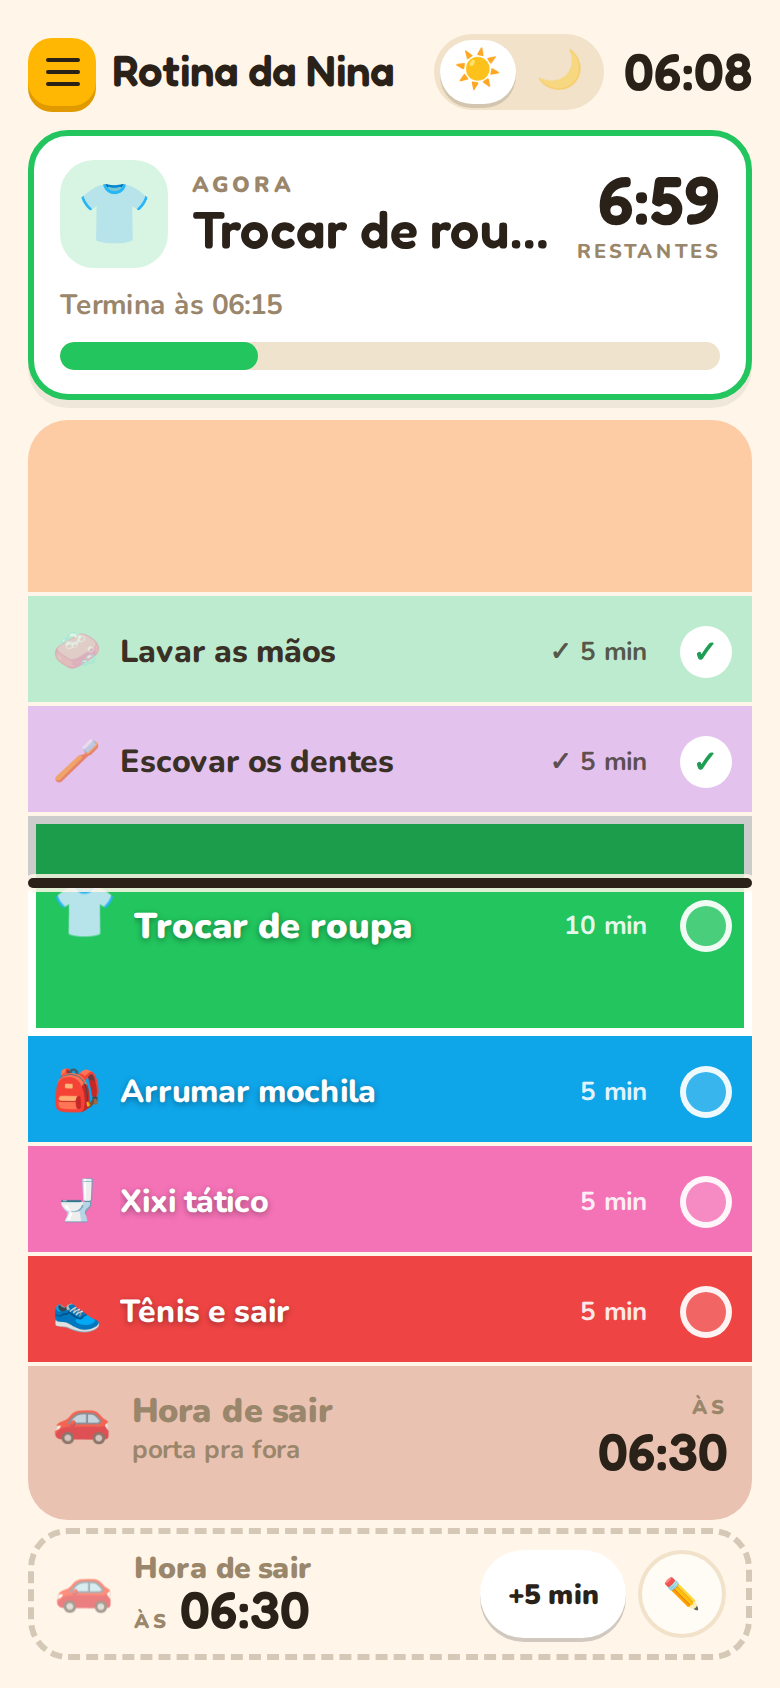
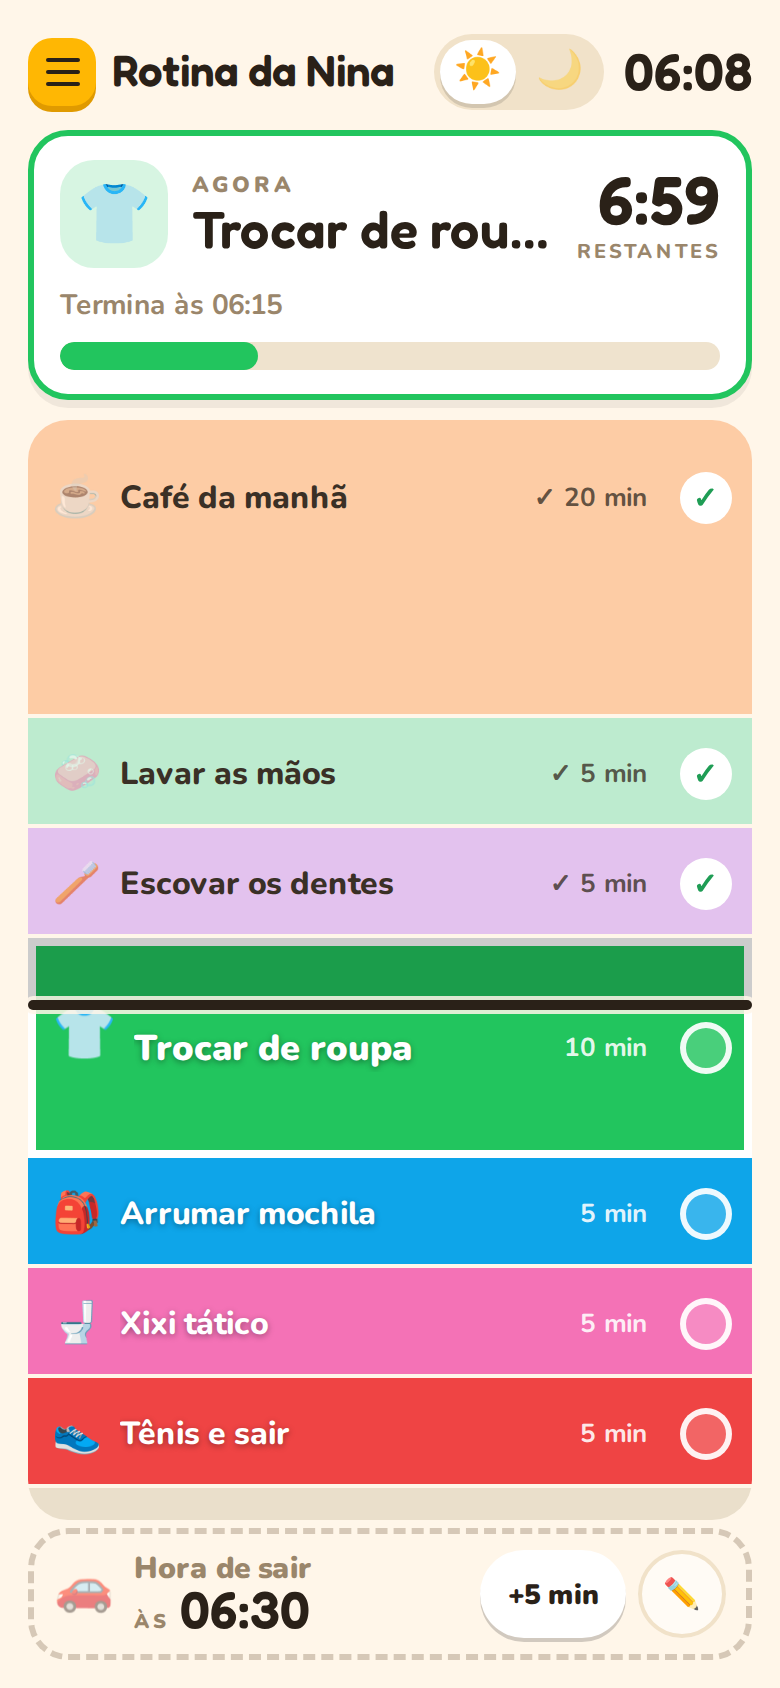
Document restore-on-delete and the fixed phone layout in the README
The phone end time is on the pinned footer only (the ribbon's closing
row was removed); only the task list scrolls on phones; "Excluir
Rotina" restores the app's original default after confirmation and
Salvar Alterações, other period untouched; old data without a period is
recovered on screen until saved. Phone screenshots refreshed from the
running app; test count updated to 445 in 22 files.

Refs #14 #16 #24 #27

diff --git a/README.md b/README.md
@@ -47,13 +47,13 @@ Se o horário acabar e ainda faltar alguma coisa, o app **mantém o encerramento
 ![Depois do horário: a zona de "Hora de sair" acesa](docs/screenshots/tv-passou-da-hora.png)
 
 ### O horário final sempre à vista
-O fim da rotina mostra **a que horas ela termina**: no celular, no marco final ("Hora de dormir · ÀS 21:00", fixo no rodapé e no fim da fita); na TV e no computador, em destaque (**FIM 06:30**) logo acima do botão **+5 min**. Ao tocar em **+5 min**, ou ao mudar o horário no modo de edição, o número muda na hora.
+O fim da rotina mostra **a que horas ela termina**: no celular, no marco final fixo no rodapé ("Hora de dormir · ÀS 21:00"), junto do **+5 min** e do **✏** (quando a rotina acaba ou passa da hora, ele acende e diz "estamos aqui"); na TV e no computador, em destaque (**FIM 06:30**) logo acima do botão **+5 min**. Ao tocar em **+5 min**, ou ao mudar o horário no modo de edição, o número muda na hora.
 
 ### Na TV ou no celular
 O app se ajusta sozinho à tela:
 
 - **TV, computador ou tablet deitado:** a fita fica na horizontal, com letras grandes para ler do outro lado da cozinha.
-- **Celular ou tablet em pé:** a fita fica na vertical e rola sozinha para acompanhar a tarefa de agora. Você pode rolar com o dedo para ver as outras tarefas; depois de alguns segundos ela volta a acompanhar.
+- **Celular ou tablet em pé:** a fita fica na vertical e rola sozinha para acompanhar a tarefa de agora. Você pode rolar com o dedo para ver as outras tarefas; depois de alguns segundos ela volta a acompanhar. Só a lista de tarefas rola: o cabeçalho (☰, manhã/noite, relógio), o cartão AGORA e o rodapé com o horário final, **+5 min** e **✏** ficam sempre dentro da tela, mesmo com avisos abertos.
 
 <p>
   <img src="docs/screenshots/celular-manha.png" alt="Rotina da manhã no celular" width="260">
@@ -118,6 +118,9 @@ Os ajustes completos ficam atrás do botão amarelo **☰** (na TV e no computad
 
 - **✏ Editar esta rotina:** abre o mesmo modo de edição do botão ✏ (veja acima).
 - **⚙ Rotinas:** o editor completo, com todas as rotinas e o horário em que cada uma deve terminar. Também tem **Cancelar** e **Salvar Alterações**, e as setas da primeira e da última tarefa ficam desativadas.
+  - **Excluir Rotina** (manhã ou noite): depois de confirmar, descarta a rotina personalizada daquele período e volta à **rotina padrão original do aplicativo** (por exemplo, a noite volta às 7 tarefas com fim às 21:00). A outra rotina não muda. Como o resto do editor, só vale depois de **Salvar Alterações**; **Cancelar** desfaz. Se era a rotina na tela, a rodada atual recomeça (as marcas ✓ eram da rotina excluída). Isso não é um "padrão pessoal": o app não guarda outra versão sua para voltar.
+  - Uma rotina sem nenhuma tarefa não pode ser salva (aqui ou no modo de edição).
+- **Dados antigos:** se o aparelho tiver dados de uma versão anterior em que a rotina da manhã ou da noite foi excluída (ou ficou sem tarefas), o app mostra a rotina padrão original daquele período com um aviso, sem apagar nem alterar nada. Toque em **✏** e **Salvar** para guardá-la; a outra rotina continua como estava.
 - **Horário limite:** a hora em que a rotina precisa acabar (por exemplo, a hora de sair para a escola). O app calcula de trás para frente quando cada tarefa deve começar.
 
 As mudanças ficam guardadas **no próprio aparelho**, no navegador. Ao salvar (no modo de edição ou no editor completo), o link da barra é atualizado sem recarregar: copie e guarde esse novo endereço para reabrir ou compartilhar tarefas, ordem, durações, nomes e horário final. No menu, use **Salvar horário** para incluir o prazo no link. As marcas ✓ não vão para o link: elas valem só para o momento.
@@ -238,7 +241,7 @@ Este é o repositório do [ver-o-tempo](https://github.com/gutogarrote/ver-o-tem
 - A big card shows the current task and a countdown. It turns red in the last 2 minutes and lists what's coming next.
 - After the deadline, it keeps the closing zone for up to three hours before rolling to the next occurrence. It calmly shows where you should be by now ("time to leave" / "time to sleep") until you tap **Recomeçar** (restart).
 - It adapts to the screen: a horizontal ribbon on a TV, a vertical scrolling list on a phone.
-- Parents tap **✏** to edit the routine on the main screen: ▲/▼ reorder, −1/+1 minute (every duration must be a whole number from 1 to 180; saving is disabled otherwise), **+** between tasks inserts one there, and −5/+5 move the routine's end time. It is a draft until **Salvar** (save); **Cancelar** discards it. Done marks stay with their tasks. The full editor and the deadline live behind the **☰** menu.
+- Parents tap **✏** to edit the routine on the main screen: ▲/▼ reorder, −1/+1 minute (every duration must be a whole number from 1 to 180; saving is disabled otherwise), **+** between tasks inserts one there, and −5/+5 move the routine's end time. It is a draft until **Salvar** (save); **Cancelar** discards it. Done marks stay with their tasks. The full editor and the deadline live behind the **☰** menu; there, **Excluir Rotina** (delete) on the morning or evening puts that period back to the app's original default after confirmation and **Salvar Alterações**, leaving the other period untouched. On phones only the task list scrolls: header, AGORA card and the footer (end time, +5, ✏) stay on screen.
 - The end time is shown on the final milestone (phone) and above **+5 min** (TV); the normal **+5 min** still adds time for this run only.
 - **Two ways to run it.** (1) A published HTTPS build, when there is one: the project is prepared for Cloudflare Workers Static Assets, but this README lists no public address. A production HTTPS build needs no home computer, can be installed as an app (PWA) and works offline after one complete online visit plus a reload; the very first visit cannot be offline. See [docs/pwa.md](docs/pwa.md). (2) Locally: get [Node.js](https://nodejs.org/) (22.23.3 LTS, pinned in `.nvmrc`), then `git clone https://github.com/gutogarrote/ver-o-tempo.git`, `cd ver-o-tempo/app`, `npm ci`, `npm start` (or download the ZIP from GitHub). To use it on a TV or phone on the same Wi-Fi, open the "Network" address that `npm start` prints. The computer must stay on, and the dev server does not install the app or work offline.
 - Routines are stored per address (origin): data saved on `localhost` or the local network address does not move to a published address by itself; use a routine link to carry a routine.
@@ -250,7 +253,7 @@ A fase 2 usa Vite e Vitest, mantendo React 19, Tailwind 3, a interface e os cont
 Use Node **22.23.3** (`nvm use` na raiz) e Python 3 no PATH para os exemplos executáveis de URL.
 Em `app/`: `npm ci`, `npm run lint -- --max-warnings=0`,
 `npm test -- --run` e `npm run build`.
-O CI executa esses quatro checks; a suíte tem 436 cenários em 21 arquivos,
+O CI executa esses quatro checks; a suíte tem 445 cenários em 22 arquivos,
 incluindo os 228 originais preservados, os testes PWA e os do modo de edição, sem skip/todo.
 `npm test` inicia Vitest em watch; `npm test -- --run` executa uma vez.
 `npm run build` gera `app/build/`; `npm run preview` serve esse build na porta 3000.
